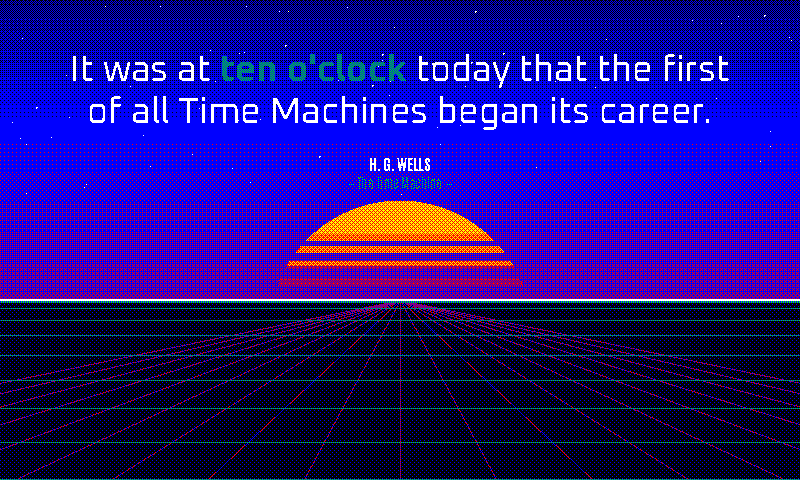
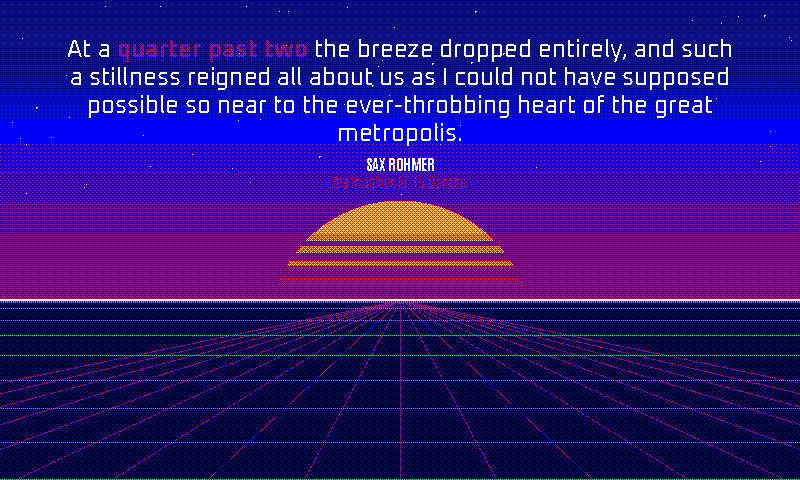
Regenerate outrun docs preview for magenta accent
Rebuild idle_hours/assets/previews/outrun.png (14:15, production mode)
so the README theme thumbnail reflects the new red-biased magenta
matched-phrase accent, and update the two stale "cyan" references in
the README theme table and description to "magenta".

https://claude.ai/code/session_01PzBczkrkDEhT1PD6wM8gYk

Changed region(s): [[0.0625, 0.0625, 0.9062, 0.4062]]

diff --git a/README.md b/README.md
@@ -303,7 +303,7 @@ Forty-one themes ship built-in, all constrained to the Spectra 6 panel palette (
 | `cartograph`  | <img src="idle_hours/assets/previews/cartograph.png" width="240" alt="cartograph theme preview">   | cream/white | black | red    | IM Fell English Italic | Antique cartographer's chart |
 | `questline`   | <img src="idle_hours/assets/previews/questline.png" width="240" alt="questline theme preview">     | black       | white | yellow | Press Start 2P (pixel) | 8-bit RPG dialogue box (custom layout) |
 | `chrono`      | <img src="idle_hours/assets/previews/chrono.png" width="240" alt="chrono theme preview">           | twilight blue | white | yellow | Pixelify Sans (pixel sans) | 16-bit SNES JRPG cutscene (FF6 era, custom layout) |
-| `outrun`      | <img src="idle_hours/assets/previews/outrun.png" width="240" alt="outrun theme preview">           | black       | white | cyan   | Oxanium (techno sans) | 1980s synthwave sunset (neon grid, custom layout) |
+| `outrun`      | <img src="idle_hours/assets/previews/outrun.png" width="240" alt="outrun theme preview">           | black       | white | magenta | Oxanium (techno sans) | 1980s synthwave sunset (neon grid, custom layout) |
 | `circuit`     | <img src="idle_hours/assets/previews/circuit.png" width="240" alt="circuit theme preview">         | forest green | white | gold   | Space Mono (mono)    | Printed circuit board (PCB silkscreen) |
 | `letter`      | <img src="idle_hours/assets/previews/letter.png" width="240" alt="letter theme preview">           | cream/white | black | red    | Dancing Script + Pinyon Script | Wax-sealed handwritten letter |
 | `grimdark`    | <img src="idle_hours/assets/previews/grimdark.png" width="240" alt="grimdark theme preview">       | black       | white | forge-amber | Cinzel Decorative + UnifrakturMaguntia | Warhammer-40K Imperial Gothic (gunmetal bulkhead) |
@@ -321,7 +321,7 @@ Forty-one themes ship built-in, all constrained to the Spectra 6 panel palette (
 
 **`vitrail`** is a Gothic stained-glass cathedral window, and the theme that leans hardest into the panel's full colour gamut. Black lead-came tracery divides the canvas into an irregular hand-leaded mosaic of jewel-toned glass shapes (a jittered lattice split into varied quadrilaterals and triangular shards, not a uniform grid) that deliberately surface the entire synthesized Spectra 6 palette — the four saturated native inks plus amber/gold, royal purple, teal, plum, lavender, rose, sky-blue, olive, mint, navy and forest, each built from the documented stipple recipes so the frame stays on-palette. The came is drawn as a beveled raised bar (a white specular highlight on the upper-left, a black drop shadow on the lower-right) so it reads as a physical 3D lead frame standing proud of recessed glass rather than flat lines, and diagonal specular sheen bands are swept across the panes so the glass reads as a glossy reflective surface catching light. A pointed lancet arch is carved into the top; a rose-window medallion divides a stone-ringed glass disc into twelve jewel-tone petals and carries the Roman-numeral hour (in Uncial Antiqua) at its hub. The literary quote glows in a clear white-glass central cartouche knocked out of the colored field so the EB Garamond body and the violet-glass matched phrase stay legible, with author/title at the cartouche foot. The digital HH:MM is never surfaced — the matched phrase and the rose-window numeral carry the time. Fully deterministic and, like the other custom-render frames, dispatched out of `render()` into its own frame function (so `--mode debug` does not apply).
 
-**`outrun`** is a 1980s synthwave / Outrun sunset — the "neon poster" counterpart to the cool digital themes (`nightvision` terminal-green, `chrono` JRPG-blue). Composition: a two-zone Bayer density-ramp dusk sky (deep indigo-navy zenith → blue → magenta horizon, with all the warm colour reserved for the sun so the quote keeps high white-on-cool contrast), a deterministic starfield, a neon perspective grid (magenta verticals fanning from a central vanishing point + cyan horizontals with perspective spacing, plotted per-pixel via Bresenham so the two-tone neon stays on the Spectra 6 palette), a bright horizon line, and the iconic **sliced retrowave half-sun** rising from behind the grid (yellow→tangerine→magenta gradient cut by horizontal slits that widen toward the horizon). The literary quote floats in the dark upper sky in white Oxanium (a techno display sans) with the matched time-phrase in synthesised cyan, and an Antonio author/title credit line sits below. The digital HH:MM is never surfaced — the matched phrase carries the time. Fully deterministic and, like the other custom-render frames, dispatched out of `render()` into its own frame function (so `--mode debug` does not apply).
+**`outrun`** is a 1980s synthwave / Outrun sunset — the "neon poster" counterpart to the cool digital themes (`nightvision` terminal-green, `chrono` JRPG-blue). Composition: a two-zone Bayer density-ramp dusk sky (deep indigo-navy zenith → blue → magenta horizon, with all the warm colour reserved for the sun so the quote keeps high white-on-cool contrast), a deterministic starfield, a neon perspective grid (magenta verticals fanning from a central vanishing point + cyan horizontals with perspective spacing, plotted per-pixel via Bresenham so the two-tone neon stays on the Spectra 6 palette), a bright horizon line, and the iconic **sliced retrowave half-sun** rising from behind the grid (yellow→tangerine→magenta gradient cut by horizontal slits that widen toward the horizon). The literary quote floats in the dark upper sky in white Oxanium (a techno display sans) with the matched time-phrase in synthesised magenta (a red-biased red+blue stipple that ties to the magenta grid verticals), and an Antonio author/title credit line sits below. The digital HH:MM is never surfaced — the matched phrase carries the time. Fully deterministic and, like the other custom-render frames, dispatched out of `render()` into its own frame function (so `--mode debug` does not apply).
 
 Pass `--theme auto` to let the clock pick by wall-clock time. The defaults are `default` during the day (06:00–18:00) and `dark` at night (18:00–06:00) — the legacy binary contract. Broaden the rotation by setting `--auto-day-theme` and/or `--auto-night-theme` to any other registered theme, e.g.
 
